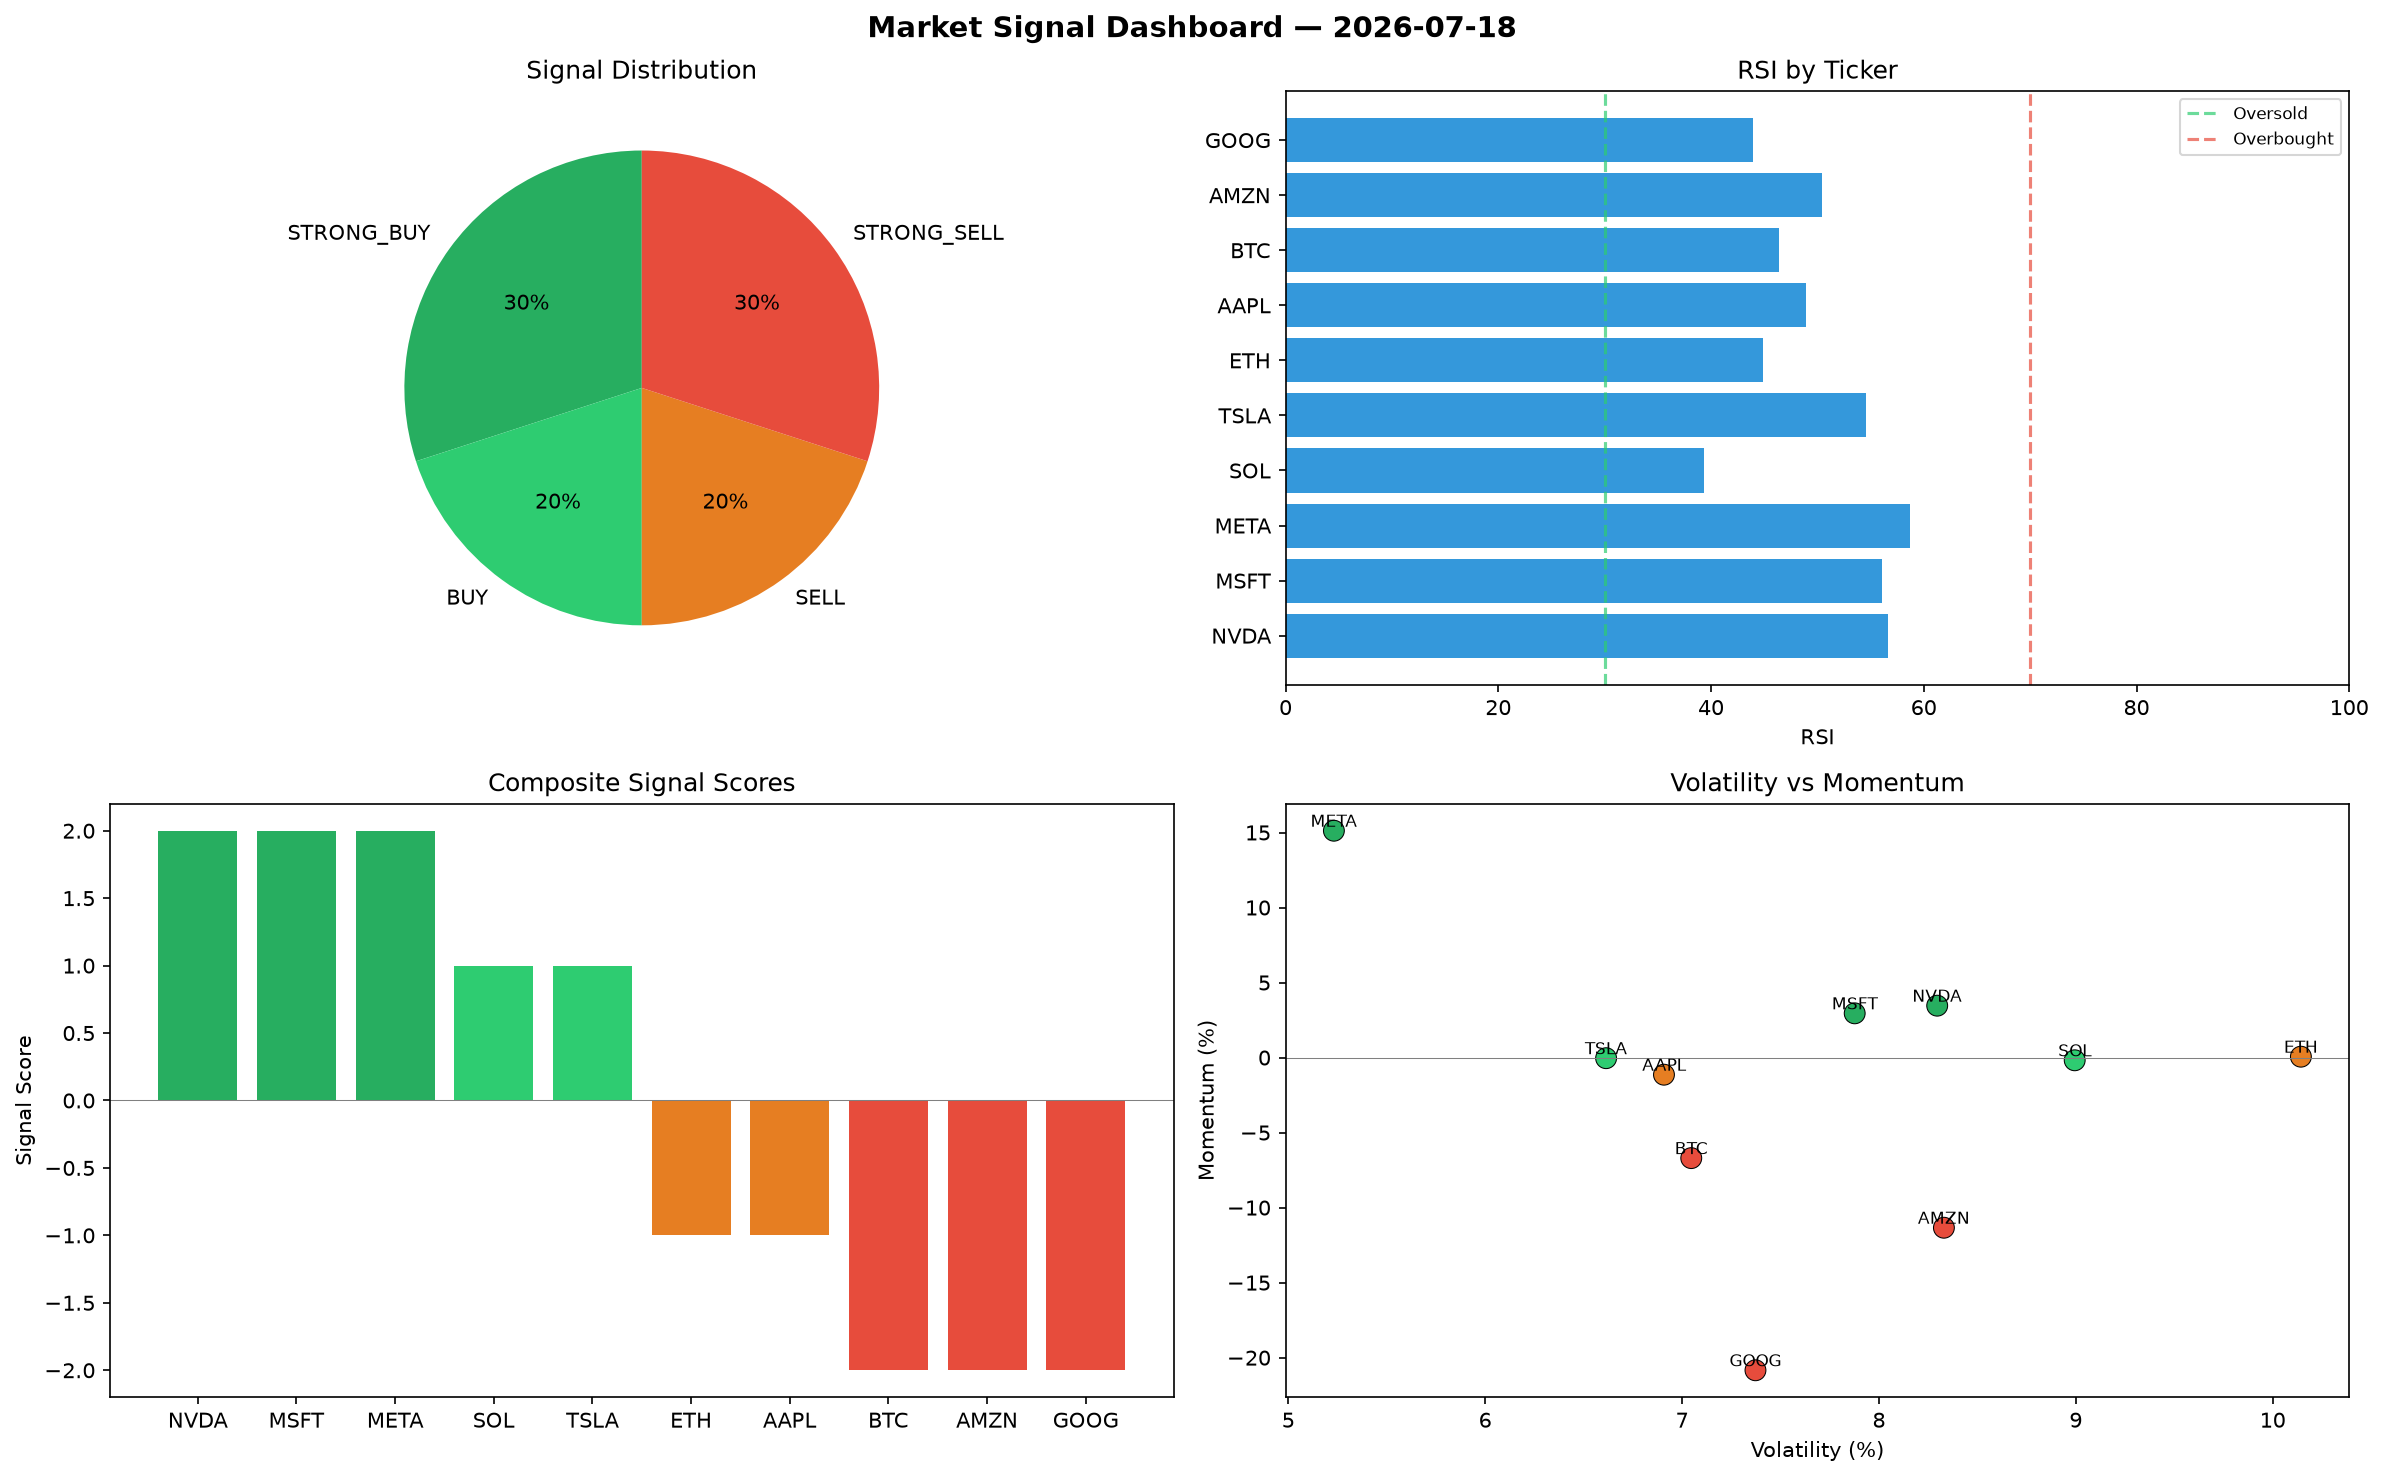
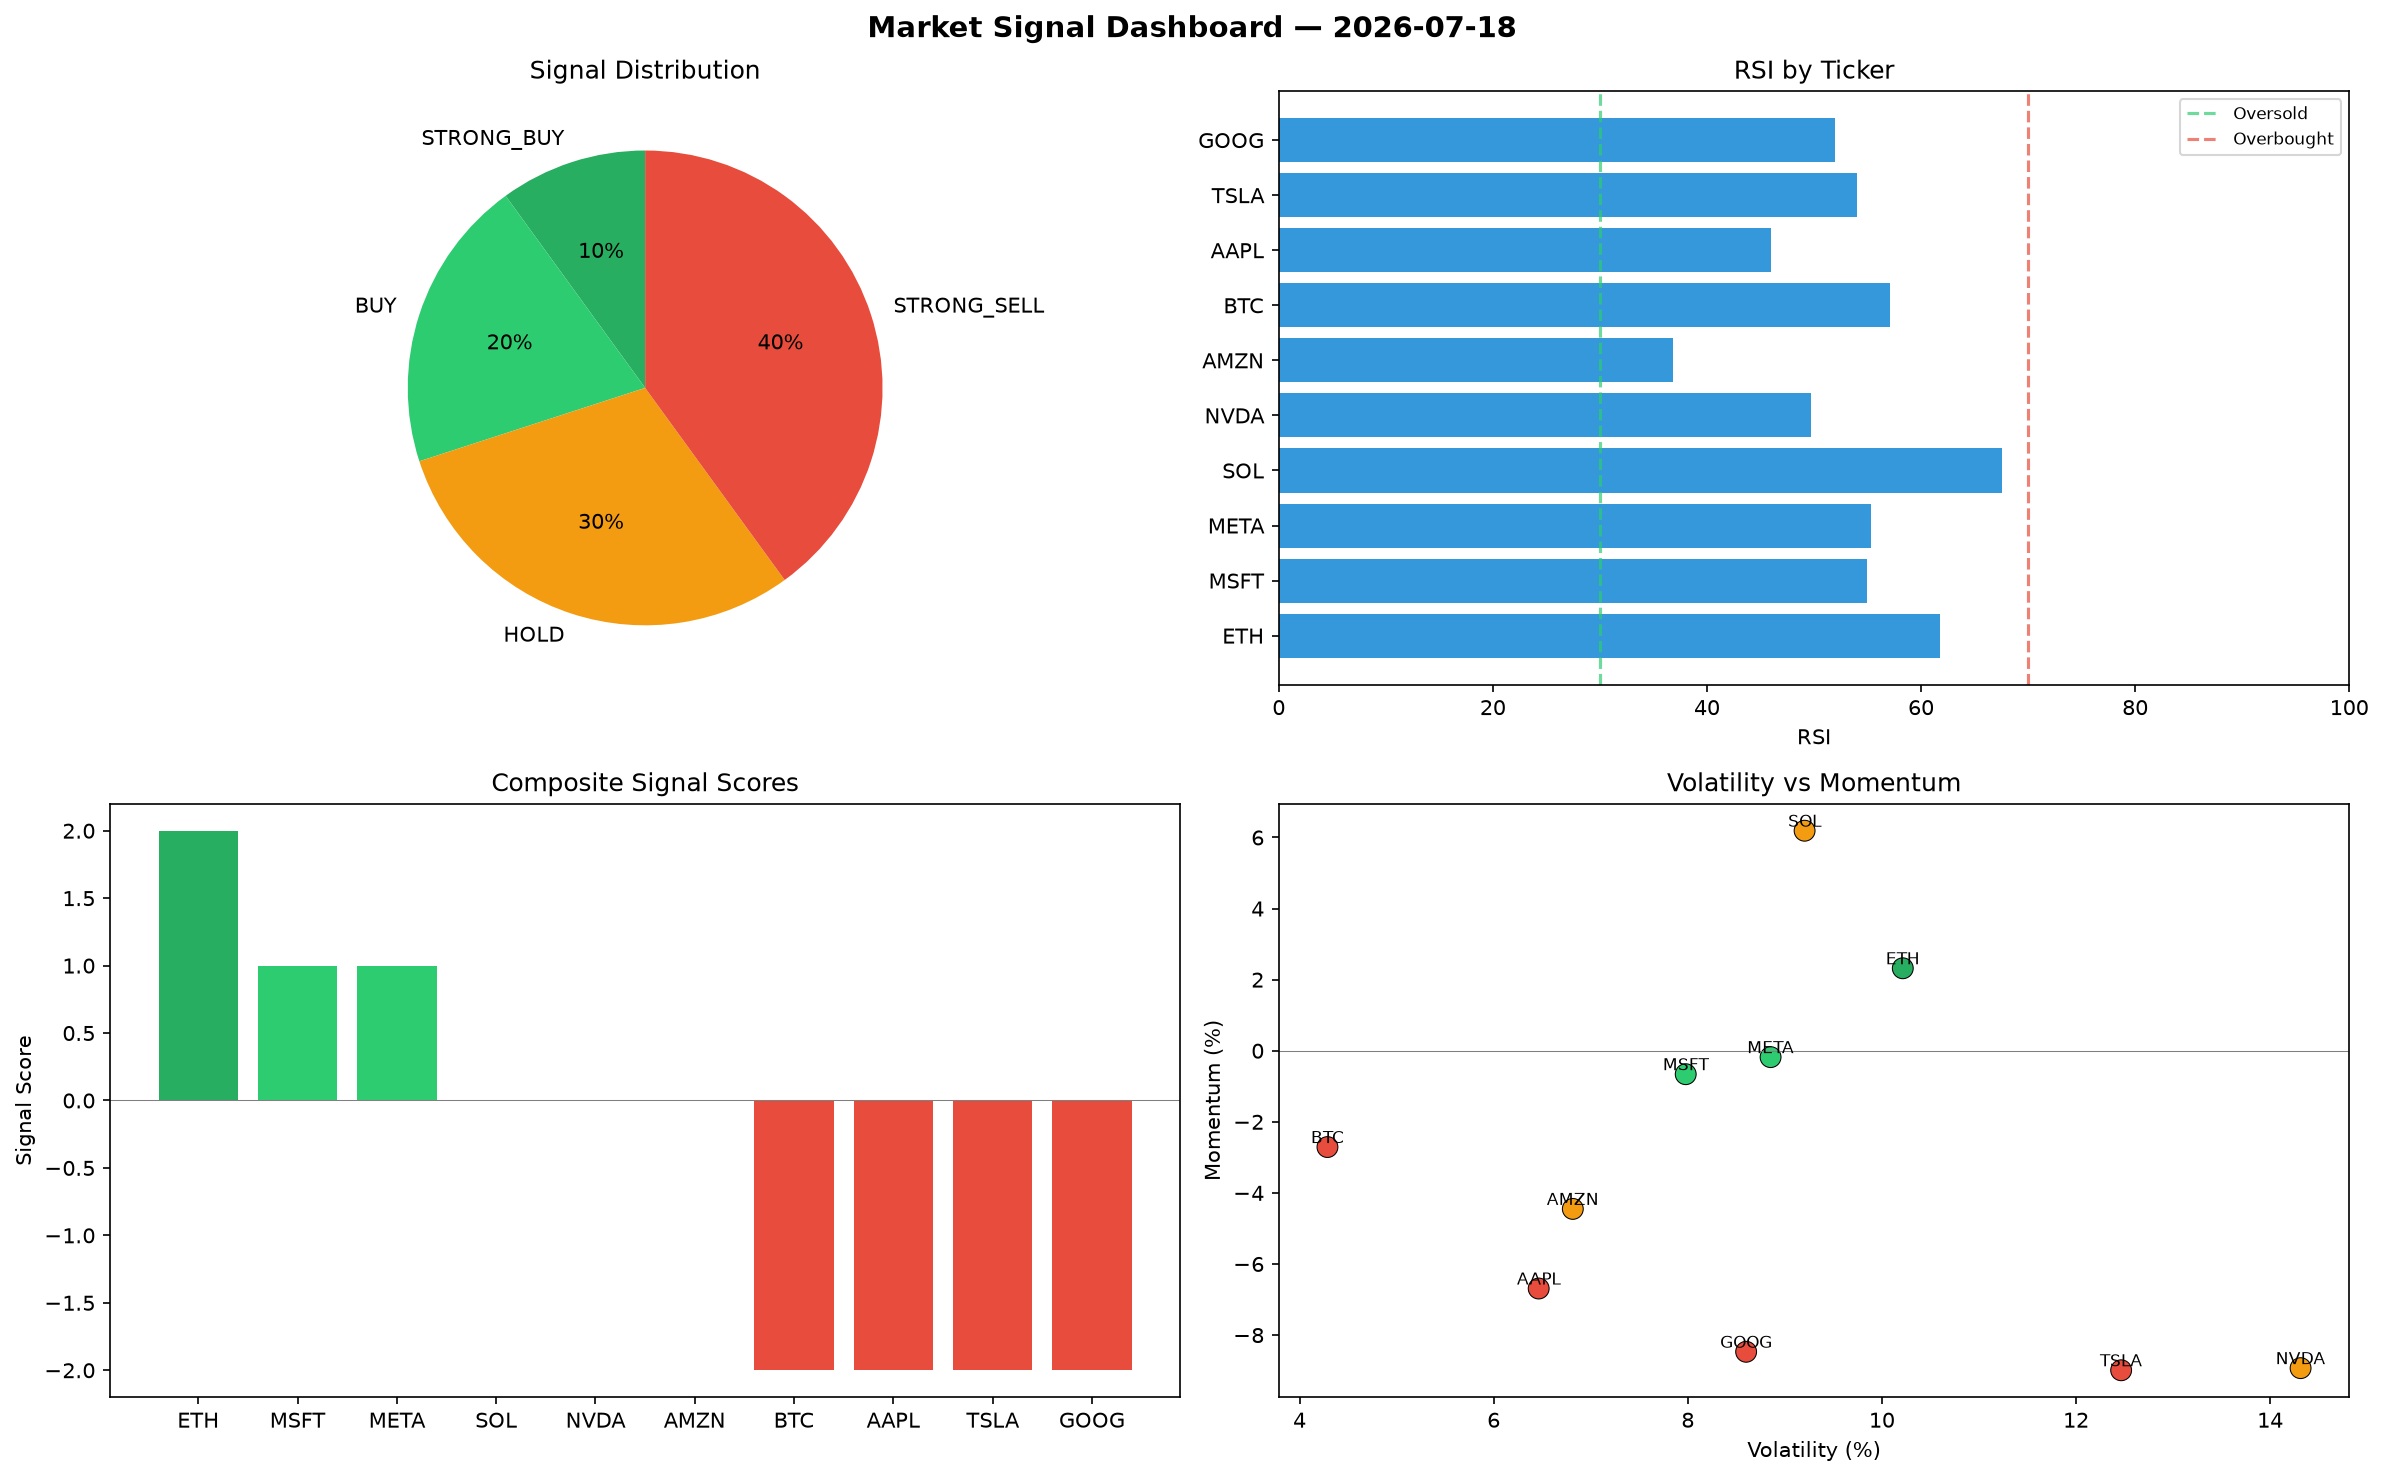
automated-bots: market signals 2026-07-18T15:29

diff --git a/logs/2026-07-18.md b/logs/2026-07-18.md
@@ -1,6 +1,6 @@
 # Market Signal Report — 2026-07-18
 
-**Run ID:** `38e0086b0f` | **Buy:** 5 | **Sell:** 5 | **Hold:** 0
+**Run ID:** `e1ce32e262` | **Buy:** 3 | **Sell:** 4 | **Hold:** 3
 
 ![Dashboard](2026-07-18_dashboard.png)
 
@@ -8,28 +8,28 @@
 
 | Ticker | Price | Signal | Score | RSI | Momentum | Confidence |
 |--------|-------|--------|-------|-----|----------|------------|
-| NVDA | $2910.99 | **STRONG_BUY** | 2 | 56.65 | 0.0346 | 0.5 |
-| MSFT | $4269.42 | **STRONG_BUY** | 2 | 56.08 | 0.0295 | 0.5 |
-| META | $4424.52 | **STRONG_BUY** | 2 | 58.67 | 0.1512 | 0.5 |
-| SOL | $3220.63 | **BUY** | 1 | 39.33 | -0.0018 | 0.25 |
-| TSLA | $2637.41 | **BUY** | 1 | 54.6 | -0.0004 | 0.25 |
-| ETH | $218.05 | **SELL** | -1 | 44.88 | 0.0006 | 0.25 |
-| AAPL | $1754.9 | **SELL** | -1 | 48.91 | -0.0114 | 0.25 |
-| BTC | $1645.69 | **STRONG_SELL** | -2 | 46.36 | -0.067 | 0.5 |
-| AMZN | $1255.92 | **STRONG_SELL** | -2 | 50.41 | -0.1134 | 0.5 |
-| GOOG | $1546.67 | **STRONG_SELL** | -2 | 43.97 | -0.2084 | 0.5 |
+| ETH | $1530.83 | **STRONG_BUY** | 2 | 61.73 | 0.0232 | 0.5 |
+| MSFT | $2914.4 | **BUY** | 1 | 54.98 | -0.0066 | 0.25 |
+| META | $3905.88 | **BUY** | 1 | 55.33 | -0.0018 | 0.25 |
+| SOL | $428.26 | **HOLD** | 0 | 67.56 | 0.0619 | 0.0 |
+| NVDA | $3446.55 | **HOLD** | 0 | 49.72 | -0.0893 | 0.0 |
+| AMZN | $2067.4 | **HOLD** | 0 | 36.87 | -0.0445 | 0.0 |
+| BTC | $2219.7 | **STRONG_SELL** | -2 | 57.13 | -0.0271 | 0.5 |
+| AAPL | $4215.15 | **STRONG_SELL** | -2 | 46.0 | -0.0669 | 0.5 |
+| TSLA | $657.45 | **STRONG_SELL** | -2 | 53.99 | -0.0899 | 0.5 |
+| GOOG | $2911.44 | **STRONG_SELL** | -2 | 51.97 | -0.0847 | 0.5 |
 
 ## Delta vs Yesterday
 
 | Ticker | Today | Yesterday | Price Change | Signal Changed |
 |--------|-------|-----------|-------------|----------------|
-| NVDA | STRONG_BUY | STRONG_SELL | 📈 195.95% | ⚠ YES |
-| MSFT | STRONG_BUY | STRONG_BUY | 📈 453.84% | — |
-| META | STRONG_BUY | STRONG_BUY | 📉 -16.31% | — |
-| SOL | BUY | STRONG_SELL | 📈 101.19% | ⚠ YES |
-| TSLA | BUY | STRONG_BUY | 📉 -43.52% | ⚠ YES |
-| ETH | SELL | STRONG_SELL | 📉 -94.05% | ⚠ YES |
-| AAPL | SELL | HOLD | 📈 461.95% | ⚠ YES |
-| BTC | STRONG_SELL | STRONG_BUY | 📈 827.41% | ⚠ YES |
-| AMZN | STRONG_SELL | STRONG_SELL | 📉 -63.52% | — |
-| GOOG | STRONG_SELL | HOLD | 📉 -60.15% | ⚠ YES |
+| ETH | STRONG_BUY | STRONG_SELL | 📉 -58.21% | ⚠ YES |
+| MSFT | BUY | STRONG_BUY | 📈 278.07% | ⚠ YES |
+| META | BUY | STRONG_BUY | 📉 -26.12% | ⚠ YES |
+| SOL | HOLD | STRONG_SELL | 📉 -73.25% | ⚠ YES |
+| NVDA | HOLD | STRONG_SELL | 📈 250.4% | ⚠ YES |
+| AMZN | HOLD | STRONG_SELL | 📉 -39.94% | ⚠ YES |
+| BTC | STRONG_SELL | STRONG_BUY | 📈 1150.89% | ⚠ YES |
+| AAPL | STRONG_SELL | HOLD | 📈 1249.76% | ⚠ YES |
+| TSLA | STRONG_SELL | STRONG_BUY | 📉 -85.92% | ⚠ YES |
+| GOOG | STRONG_SELL | HOLD | 📉 -24.99% | ⚠ YES |
